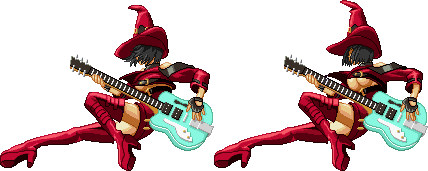
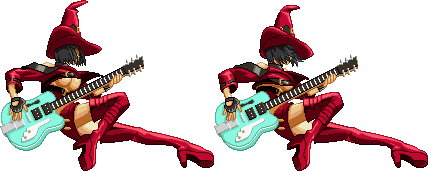
Começando a implementar boss

diff --git a/guitar_boss.py b/guitar_boss.py
@@ -1,25 +1,87 @@
-from os import getcwd
 from PPlay.sprite import Sprite
+from PPlay.window import Window
+
+
 class BossGuitarra:
+    janela = Window(1200, 700)
     sprites = {
-                # parada
-                "idle_right": Sprite('Assets/boss_guitar/still_right.png'),
-                "idle_left" : Sprite('Assets/boss_guitar/still_left.png'),
-                # invocando microfone
-                "swing_summon_right" : Sprite("Assets/boss_guitar/summon_right.png",6),
-                "swing_summon_left" : Sprite("Assets/boss_guitar/summon_right.png",6),
-                # girando microfone
-                "swinging_right" : Sprite("Assets/boss_guitar/swinging_right.png",10),
-                "swinging_left" : Sprite("Assets/boss_guitar/swinging_left.png",10),
-                # tocando pra cima (ataque meteoro)
-                "meteoro_right" : Sprite("Assets/boss_guitar/meteoro_right.png",4),
-                "meteoro_left" : Sprite("Assets/boss_guitar/meteoro_left.png",4),
-                # tocando agachada
-                "playing_right" : Sprite("Assets/boss_guitar/playing_right.png",6),
-                "playing_left" : Sprite("Assets/boss_guitar/playing_left.png",6),
-                # arriving
-                "arriving_left": Sprite("Assets/boss_guitar/falling.png",2),
-                # morte
-                "dying_right": Sprite("Assets/boss_guitar/dying_right.png",2),
-                "dying_left": Sprite("Assets/boss_guitar/dying_left.png",2),
-                }
+        # parada
+        "idle_right": Sprite('Assets/boss_guitar/still_right.png', 20),
+        "idle_left": Sprite('Assets/boss_guitar/still_left.png', 20),
+        # invocando microfone
+        "swing_summon_right": Sprite("Assets/boss_guitar/summon_right.png", 6),
+        "swing_summon_left": Sprite("Assets/boss_guitar/summon_right.png", 6),
+        # girando microfone
+        "swinging_right": Sprite("Assets/boss_guitar/swinging_right.png", 10),
+        "swinging_left": Sprite("Assets/boss_guitar/swinging_left.png", 10),
+        # tocando pra cima (ataque meteoro)
+        "meteoro_right": Sprite("Assets/boss_guitar/meteoro_right.png", 4),
+        "meteoro_left": Sprite("Assets/boss_guitar/meteoro_left.png", 4),
+        # tocando agachada
+        "playing_right": Sprite("Assets/boss_guitar/playing_right.png", 6),
+        "playing_left": Sprite("Assets/boss_guitar/playing_left.png", 6),
+        # arriving
+        "arriving_left": Sprite("Assets/boss_guitar/falling.png", 2),
+        # morte
+        "dying_right": Sprite("Assets/boss_guitar/dying_right.png", 2),
+        "dying_left": Sprite("Assets/boss_guitar/dying_left.png", 2),
+    }
+    hitbox = Sprite("Assets/boss_guitar/hitbox.png")
+    hitbox.set_position(-9999, -9999)
+    gravity = 4500
+
+    def __init__(self, janela):
+        self.sprite_atual = self.sprites["arriving_left"]
+        self.janela = janela
+        self.is_imune = True
+        self.is_started = False
+        self.is_arriving = False
+        self.sprite_atual.play()
+        self.vely = self.velx = 0
+        self.is_falling = False
+        self.cronometro_animacao = 0
+
+    def start_arrive(self):
+        self.sprite_atual = self.sprites["arriving_left"]
+        self.hitbox.x = self.janela.width + self.sprites["arriving_left"].width
+        self.hitbox.y = 0 - self.sprites["arriving_left"].height
+        self.is_arriving = True
+        self.is_falling = True
+        self.is_started = True
+        self.vely = 0
+        self.cronometro_animacao = 0
+        self.sprites["arriving_left"].set_total_duration(100)
+
+    def feel_gravity(self):
+        if self.is_falling is True:
+            self.vely -= self.gravity * self.janela.delta_time()
+
+    def apply_motion(self):
+        self.hitbox.y -= self.vely * self.janela.delta_time()
+        self.hitbox.x += self.velx * self.janela.delta_time()
+
+    def update(self):
+        # print(f"{self.vely}")
+        if self.is_arriving:
+            self.hitbox.x -= 1000 * self.janela.delta_time()
+        self.feel_gravity()
+        self.apply_motion()
+
+    def update_frame(self):
+        if self.is_started:
+            duracao = self.sprite_atual.get_total_duration()
+            qtdframes = self.sprite_atual.get_final_frame()
+            intervalo = duracao / qtdframes
+            # print(f'Duracao: {duracao:.2f}, qtdframes: {qtdframes}, cronometro: {self.cronometro_animacao:.2f}')
+            self.cronometro_animacao += self.janela.delta_time()
+            self.sprite_atual.set_curr_frame((self.cronometro_animacao // intervalo) % qtdframes)
+
+    def draw_boss(self):
+        # print(self.hitbox.x, self.hitbox.y, self.vely)
+        if self.is_started:
+            diferenca_hitbox_y = abs(self.hitbox.height - self.sprite_atual.height)
+            diferenca_hitbox_x = abs(self.hitbox.width - self.sprite_atual.width)
+            self.sprite_atual.x = self.hitbox.x - diferenca_hitbox_x/2
+            self.sprite_atual.y = self.hitbox.y - diferenca_hitbox_y
+            self.update_frame()
+            self.sprite_atual.draw()

diff --git a/player.py b/player.py
@@ -5,7 +5,8 @@ from tiros import Tiro
 
 class Player:
     # sprites visuais:
-    Window(800, 700)
+    Window(1200, 700)
+    gravity = 4500
     instrumento = 'violao'
     proximo_instrumento = {'violao': 'piano',
                            'piano': 'violao'}
@@ -33,8 +34,8 @@ class Player:
                 'montado': Sprite("Assets/character/player_hitbox_piano.png")}
     sprite_atual = sprites["violao"]["walk_right"]
     # cooldown tiros:  
-    cooldown = 0
-    gravity = 4500
+    cooldown_value = 0.3
+    walkspeed_padrao = 200
 
     def __init__(self, janela: Window, mapa, instrumento: str):
         self.janela = janela
@@ -43,7 +44,7 @@ class Player:
         self.walkspeed = 200
         self.instrumento = instrumento
         self.last_direction = 'right'
-        self.delay = 0
+        self.cooldown_passado = 0
         self.hitbox = self.hitboxes['desmontado']
         self.ready = True  # se pode atirar (não está em cooldown)
         self.hitbox.set_position(50, 608)
@@ -163,21 +164,20 @@ class Player:
                     self.sprite_atual = self.sprites[self.instrumento][f'playing_{self.last_direction}']
 
         # Atualiza o tempo de recarga
-        self.delay += self.janela.delta_time()
-        if self.delay >= self.cooldown:
-            self.delay = 0
+        self.cooldown_passado += self.janela.delta_time()
+        if self.cooldown_passado >= self.cooldown_value and self.is_playing:
+            self.cooldown_passado = 0
             # Atualiza os tiros
-            if self.is_playing:
-                if self.instrumento == 'piano' and self.playing_piano \
-                        or self.instrumento == 'violao':
-                    if self.teclado.key_pressed("up"):
-                        self.shoot(self.instrumento, (0, 1), self.hitbox)
-                    elif self.teclado.key_pressed("down"):
-                        self.shoot(self.instrumento, (0, -1), self.hitbox)
-                    elif self.last_direction == 'right':
-                        self.shoot(self.instrumento, (1, 0), self.hitbox)
-                    elif self.last_direction == 'left':
-                        self.shoot(self.instrumento, (-1, 0), self.hitbox)
+            if self.instrumento == 'piano' and self.playing_piano \
+                    or self.instrumento == 'violao':
+                if self.teclado.key_pressed("up"):
+                    self.shoot(self.instrumento, (0, 1), self.hitbox)
+                elif self.teclado.key_pressed("down"):
+                    self.shoot(self.instrumento, (0, -1), self.hitbox)
+                elif self.last_direction == 'right':
+                    self.shoot(self.instrumento, (1, 0), self.hitbox)
+                elif self.last_direction == 'left':
+                    self.shoot(self.instrumento, (-1, 0), self.hitbox)
 
     def update_frame(self, sprite, ms):
         sprite.set_total_duration(ms)
@@ -195,9 +195,11 @@ class Player:
         self.playing_piano = False
         self.can_move = True
 
-    @staticmethod
-    def shoot(tipo, direcao, player):
-        Tiro(tipo, direcao, player)
+    def shoot(self, tipo, direcao, player):
+        velocidade_player = 0
+        if self.teclado.key_pressed("right") or self.teclado.key_pressed("left"):
+            velocidade_player = self.walkspeed_padrao
+        Tiro(tipo, direcao, player, velocidade_player)
 
     def draw_player(self):
         self.sprite_atual.set_position(self.hitbox.x, self.hitbox.y)
@@ -220,16 +222,20 @@ class Player:
 
     def check_camera(self, lista_gameobjects: list, mapa):
         self.v_camera = 200
-        if self.hitbox.x + self.hitbox.width >= self.janela.width / 2:
+        if self.hitbox.x + self.hitbox.width >= self.janela.width / 2 \
+                and mapa.floor.x > mapa.boss_x_start:
             self.walkspeed = 0
             for gameobject in lista_gameobjects:
                 if self.can_move:
                     if self.teclado.key_pressed("RIGHT"):
                         gameobject.x -= self.v_camera * self.janela.delta_time()
-                    if self.teclado.key_pressed("LEFT"):
+                    elif self.teclado.key_pressed("LEFT"):
                         if not mapa.floor.x > 0:
                             gameobject.x += self.v_camera * self.janela.delta_time()
                         else:
                             self.walkspeed = 200
         else:
             self.walkspeed = 200
+            if mapa.floor.x < mapa.boss_x_start:
+                mapa.floor.x = mapa.boss_x_start
+                mapa.boss.start_arrive()

diff --git a/tiros.py b/tiros.py
@@ -1,4 +1,5 @@
 from os import getcwd
+
 from PPlay.sprite import Sprite
 from PPlay.window import Window
 
@@ -12,14 +13,13 @@ class Tiro(Sprite):
              "flauta": [],
              "piano": []
              }
-
     velocidades = {"violao": 600,
-                   "flauta": 300,
-                   "piano": 300
+                   "flauta": 600,
+                   "piano": 600
                    }
-    max_lifetimes = {"violao": 0.5,
-                     "flauta": 0.5,
-                     "piano": 0.5
+    max_lifetimes = {"violao": 0.8,
+                     "flauta": 0.8,
+                     "piano": 0.8
                      }
     direcoes = {(1, 0): "right",
                 (-1, 0): "left",
@@ -27,7 +27,7 @@ class Tiro(Sprite):
                 (0, -1): "down"
                 }
 
-    def __init__(self, tipo_tiro: str, direcao: tuple, player: Sprite):
+    def __init__(self, tipo_tiro: str, direcao: tuple, player: Sprite, velocidade_extra: float):
         """
         Direção: uma tupla que indica o sinal da velocidade X e velocidade Y que o tiro terá. Idealmente -1, 0 ou 1.
         
@@ -36,7 +36,7 @@ class Tiro(Sprite):
         super().__init__(f'{self.path_tiros}\\{tipo_tiro}_{self.direcoes[direcao]}.png', 5)
         self.direcao = direcao
         self.tiros[tipo_tiro].append(self)
-
+        self.velocidade_extra = velocidade_extra
         if self.direcao[0] > 0:  # se for pra direita
             self.x = player.x + player.width  # na direita do player  (x)
             self.y = player.y + player.height / 2 - self.height / 2  # no meio do player (y)
@@ -52,17 +52,17 @@ class Tiro(Sprite):
 
         self.x0 = self.x
         self.y0 = self.y
-        
-        self.lifetime = 0
+
+        self.time_lived = 0
 
     @classmethod
-    def update_tiros(cls, janela: Window):
+    def update_tiros(cls, janela: Window, player=None):
         for tipo_tiro in cls.tipo_tiros:
             for i, tiro in enumerate(cls.tiros[tipo_tiro]):
-                tiro.x += cls.velocidades[tipo_tiro] * tiro.direcao[0] * janela.delta_time()
+                tiro.x += (cls.velocidades[tipo_tiro] + tiro.velocidade_extra) * tiro.direcao[0] * janela.delta_time()
                 tiro.y -= cls.velocidades[tipo_tiro] * tiro.direcao[1] * janela.delta_time()
-                tiro.lifetime += janela.delta_time()
-                if tiro.lifetime >= cls.max_lifetimes[tipo_tiro]:
+                tiro.time_lived += janela.delta_time()
+                if tiro.time_lived >= cls.max_lifetimes[tipo_tiro]:
                     cls.tiros[tipo_tiro].pop(i)
 
     @classmethod

diff --git a/chao.py b/chao.py
@@ -1,27 +1,43 @@
-from PPlay.gameimage import GameImage
-from player import Player
 from os import getcwd
+
+from PPlay.gameimage import GameImage
+
+
 class Chao(GameImage):
     path = f'{getcwd()}\\assets\\imagens\\Floors'
-    
-    def __init__(self, image_filename: str, y: float, buracos:list = []):
-        """ Buracos será uma lista de tuplas com x iniciais e finais onde o player pode cair e morrer"""
+
+    def __init__(self, image_filename: str, y: float, buracos: list = None):
+        """ Buracos será uma lista de tuplas com distancia iniciais e finais do
+        inicio do chão onde o player pode cair e morrer"""
         super().__init__(f'{self.path}\\{image_filename}')
         self.x = 0
         self.y = y
         self.buracos = buracos
-        
-    def try_landing(self, entity:Player):
-        if entity.hitbox.y + entity.hitbox.height >= self.y:
+
+    def try_landing_boss(self, boss):
+        if boss.hitbox.y + boss.hitbox.height > self.y:
+            boss.hitbox.y = self.y - boss.hitbox.height
+            boss.vely = 0
+            boss.is_falling = False
+
+            if boss.is_arriving:
+                boss.is_arriving = False
+                boss.is_imune = False
+                boss.sprite_atual = boss.sprites["idle_left"]
+                boss.cronometro_animacao = 0
+                boss.sprite_atual.set_total_duration(1.7)
+
+    def try_landing_player(self, player):
+        if player.hitbox.y + player.hitbox.height >= self.y:
             entity_no_buraco = False
+            ''' # A ser implementado
             if self.buracos:
                 for buraco in self.buracos:
                     x_inicial, x_final = buraco[0], buraco[1]
-                    if entity.hitbox.x > x_inicial and entity.hitbox.x + entity.hitbox.width < x_final:
-                        entity_no_buraco = True
+                    if player.hitbox.x > x_inicial and player.hitbox.x + player.hitbox.width < x_final:
+                        entity_no_buraco = True'''
             if entity_no_buraco is False:
-                entity.hitbox.y = self.y - entity.hitbox.height
-                entity.vely = 0
-                
-                entity.can_jump = True
-                entity.is_falling = False
+                player.hitbox.y = self.y - player.hitbox.height
+                player.vely = 0
+                player.can_jump = True
+                player.is_falling = False

diff --git a/menu.py b/menu.py
@@ -1,5 +1,6 @@
-from PPlay.sprite import *
 from PPlay.gameimage import *
+from PPlay.sprite import *
+
 
 class Menu:
     def __init__(self, janela) -> None:
@@ -13,13 +14,13 @@ class Menu:
         self.player_selection = False
         self.options_menu = False
         self.play_button = Sprite("Assets/menu/jogar.png", 2)
-        self.play_button.set_position(300,240)
+        self.play_button.set_position(300, 240)
         self.player_button = Sprite("Assets/menu/jogador.png", 2)
-        self.player_button.set_position(300,340)
+        self.player_button.set_position(300, 340)
         self.options_button = Sprite("Assets/menu/opções.png", 2)
-        self.options_button.set_position(300,440)
+        self.options_button.set_position(300, 440)
         self.leave_button = Sprite("Assets/menu/sair.png", 2)
-        self.leave_button.set_position(320,540)
+        self.leave_button.set_position(320, 540)
         self.background = GameImage("Assets/menu/menu_bg.png")
 
     def check_click(self):
@@ -61,7 +62,7 @@ class Menu:
                     self.janela.close()
             else:
                 self.leave_button.set_curr_frame(0)
-                
+
         if self.keyboard.key_pressed("ESC"):
             self.playing = False
             self.options_menu = False

diff --git a/fase1.py b/fase1.py
@@ -1,13 +1,15 @@
 from PPlay.gameimage import *
 from chao import Chao
-class Mapa:
-    def __init__(self, janela):
+
+
+class Fase1:
+    def __init__(self, janela, boss):
         self.janela = janela
         self.background = GameImage("Assets/imagens/Skies/background-2.png")
         self.floor = Chao("floor.png", 608)
-
+        self.boss_x_start = -700
+        self.boss = boss
 
     def draw_elements(self):
         self.background.draw()
         self.floor.draw()
-
